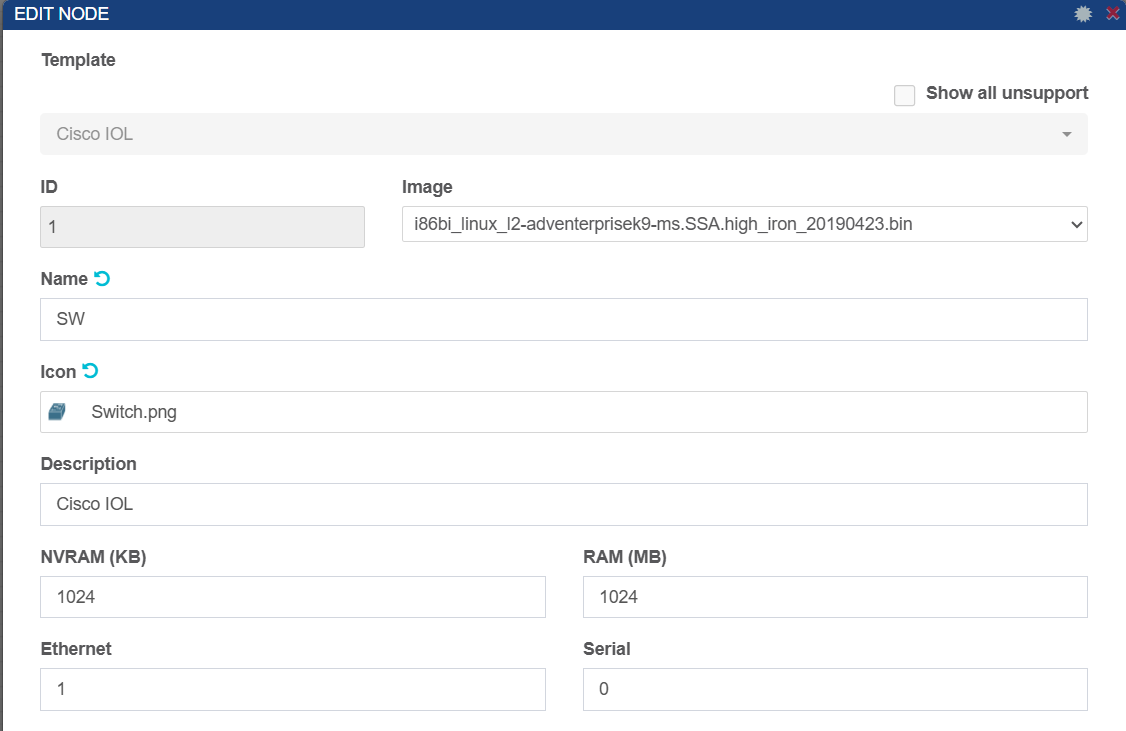
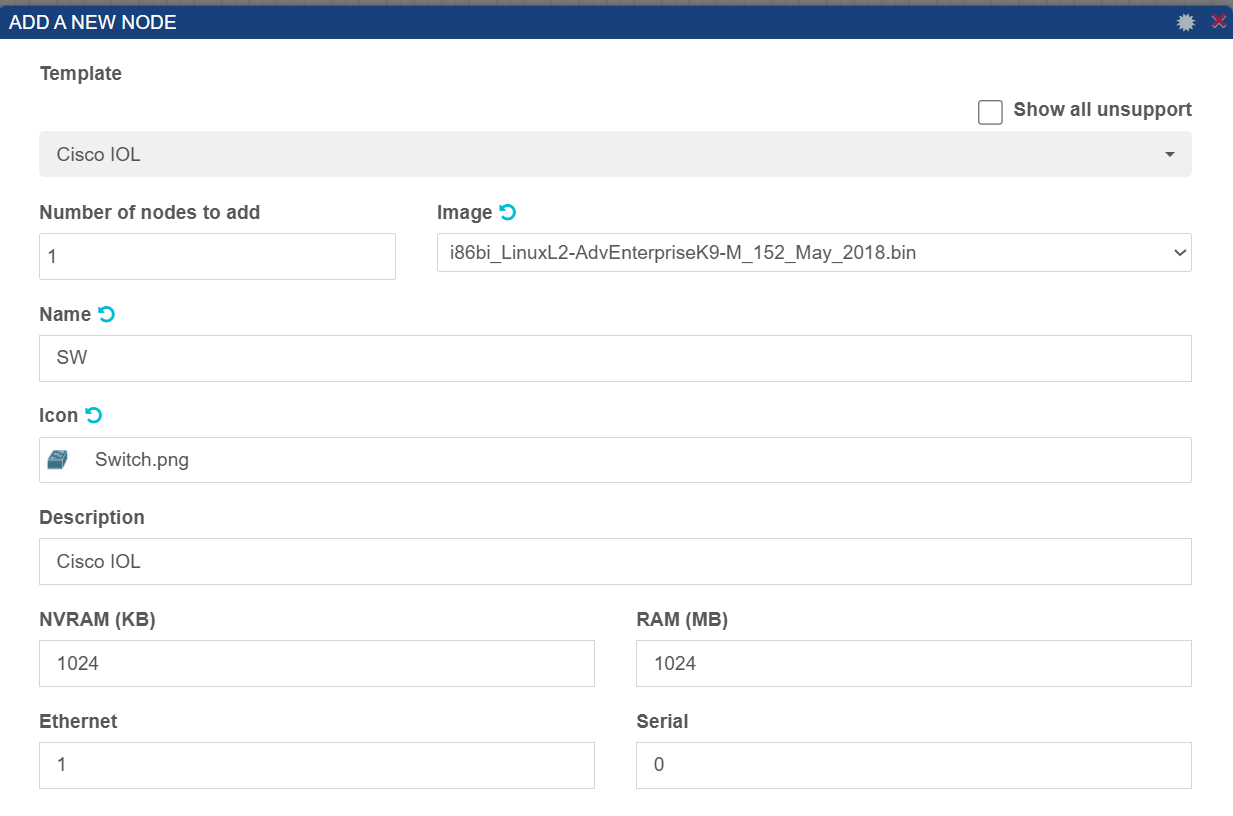
Update README.md

diff --git a/LabSetup/2. Setup_prerequisites.md b/LabSetup/2. Setup_prerequisites.md
@@ -202,7 +202,7 @@ All these files as well as Crack scripts are included in the attached folder.
 
 Copy all these above files to the `/opt/unetlab/addons/iol/bin/` directory in the PnetLab VM. You can use SSH or software like WinSCP/FileZilla to copy files to the PnetLab VM. In my case, I choose SSH since I do not need to download any extra software.
 
-From the folder location of these files, open the Windows PowerShell and run the following command to copy files to the PnetLab VM:
+From the folder location of these files, open the Windows PowerShell and run the following command to copy all Cisco IOL files to the PnetLab VM (We might not need to use all of these images, but I will copy all of them to the PnetLab VM for future use):
 
 ```powershell
 PS C:\Users\Chu Trung Anh\Downloads\ISO\Project2_ISO\Network_devices> dir
@@ -220,8 +220,9 @@ Mode                 LastWriteTime         Length Name
 -a----         4/15/2025  10:00 PM      126249700 i86bi_linux_l2-adventerprisek9-ms.SSA.high_iron_20190423.bin
 -a----         4/15/2025  10:00 PM             38 iourc
 -a----         4/15/2025  10:00 PM      159350476 L3-ADVENTERPRISEK9-M-15.4-2T.bin
+```
 
-
+```powershell
 PS C:\Users\Chu Trung Anh\Downloads\ISO\Project2_ISO\Network_devices> scp * root@192.168.249.10:/opt/unetlab/addons/iol/bin/
 The authenticity of host '192.168.249.10 (192.168.249.10)' can't be established.
 ED25519 key fingerprint is SHA256:jUFSA4j+viXJ2ZdgBSVcWzpyIOFotG3CsWZI0jO86F0.
@@ -288,7 +289,12 @@ Type `Cisco IOL` in the search box, then select `Cisco IOL`
 
 ![alt text](assets/image-21.png)
 
+Choose `i86bi_LinuxL2-AdvEnterpriseK9-M_152_May_2018.bin` as the image for the switch:
+
+
 ![alt text](assets/image-23.png)
+
+
 
 Some fields are:
 
@@ -307,13 +313,16 @@ Serial or Ethernet are both types of physical interfaces on the device, but Ethe
 *Ethernet cable and Serial cable*
 
 Right click on the node and select `Start` to power on the device.
+
 ![alt text](assets/image-25.png)
 
-The double click on the device to open the console (connect via Putty) to configure the device. 
+
+
+Then double click on the device to open the console (connect via Putty) to configure the device.
 
 ![alt text](assets/image-26.png)
 
-Create a similar Router
+Create a similar Router, choose `i86bi_LinuxL3-AdvEnterpriseK9-M2_157_3_May_2018.bin` as the image for the router.
 
 ![alt text](assets/image-27.png)
 
